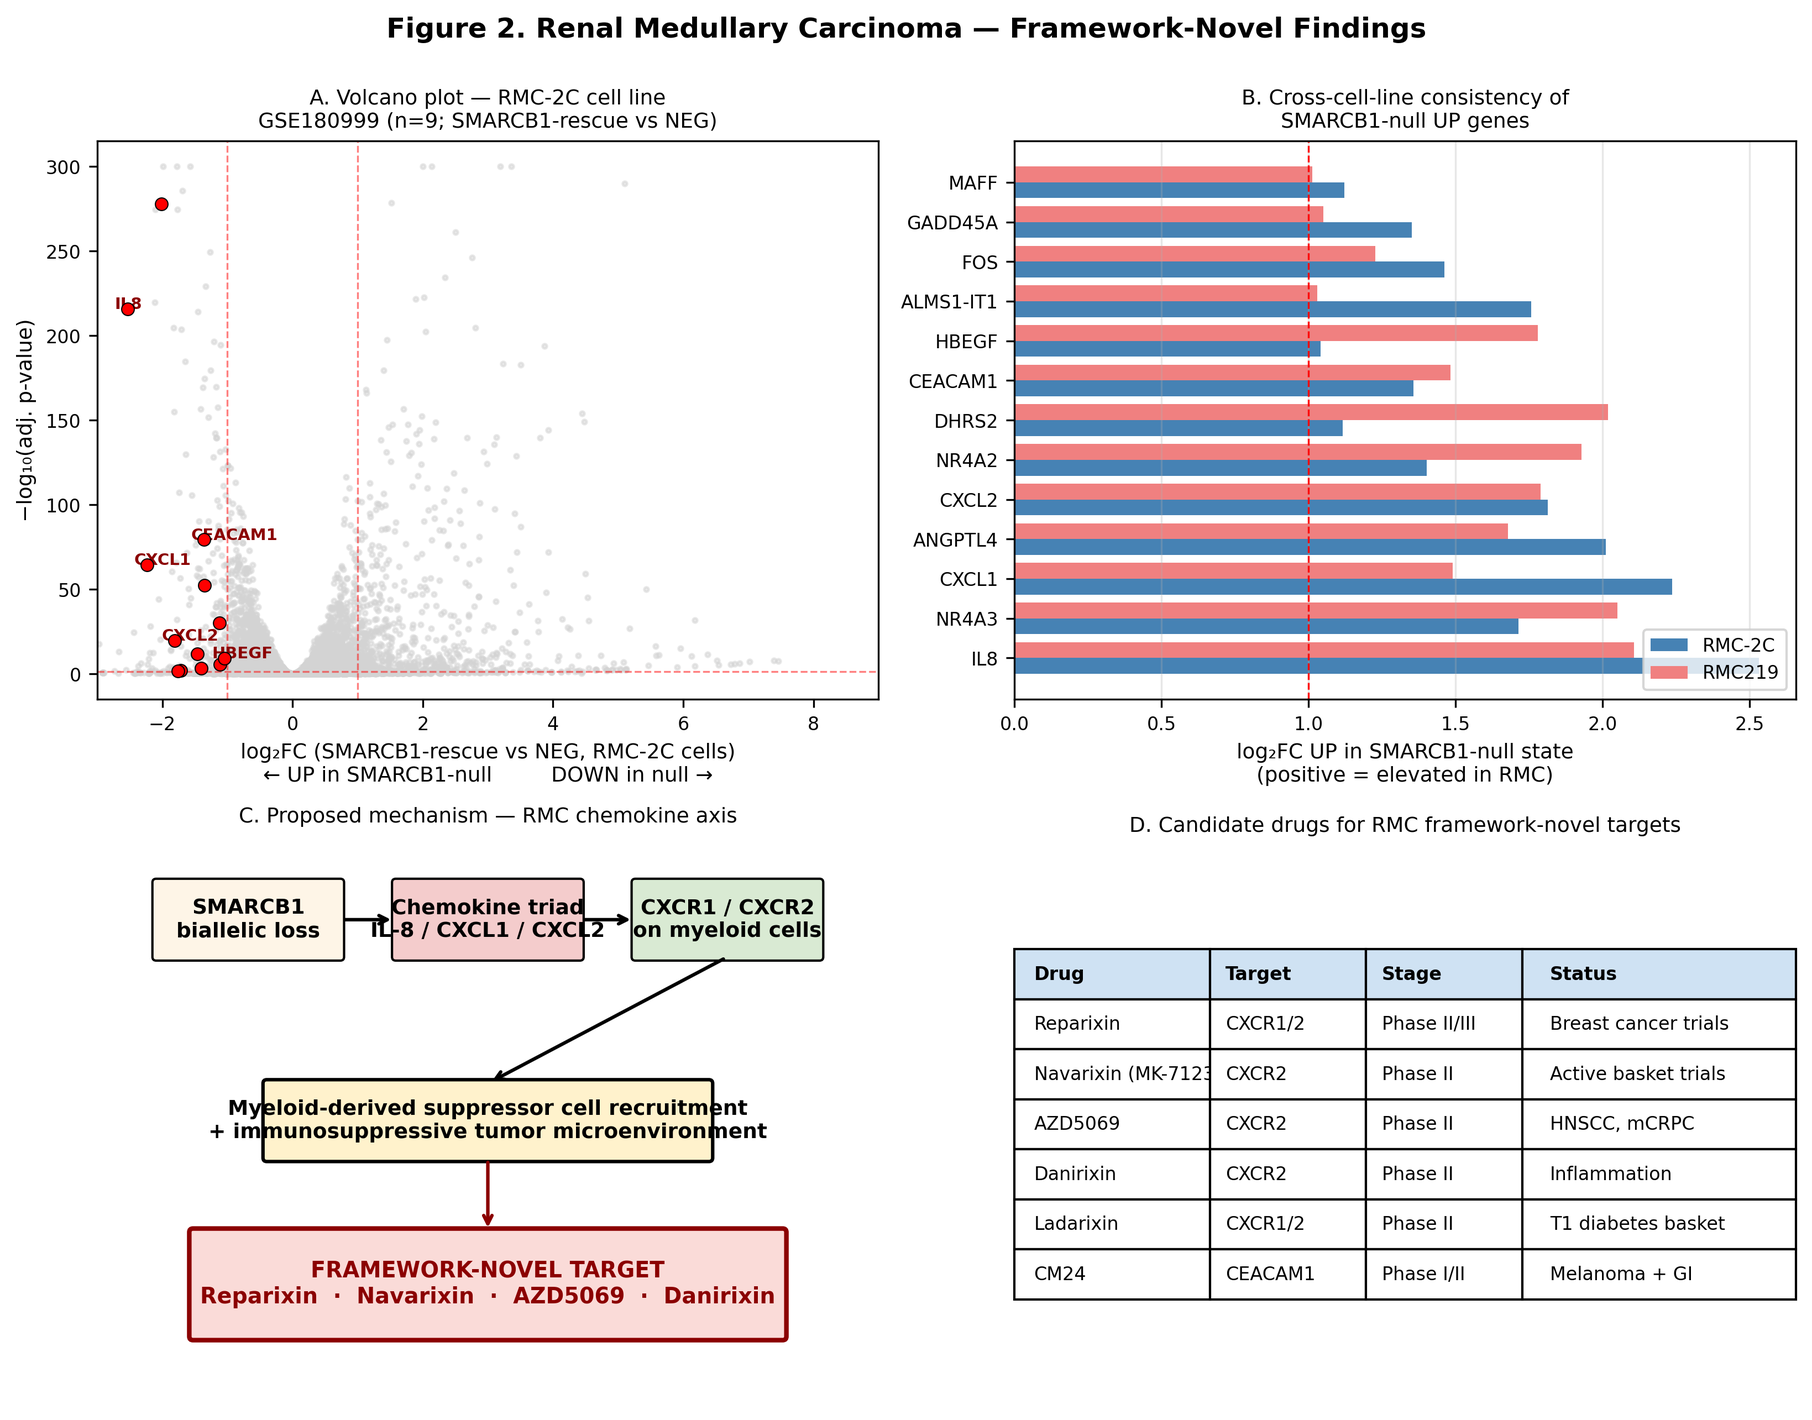
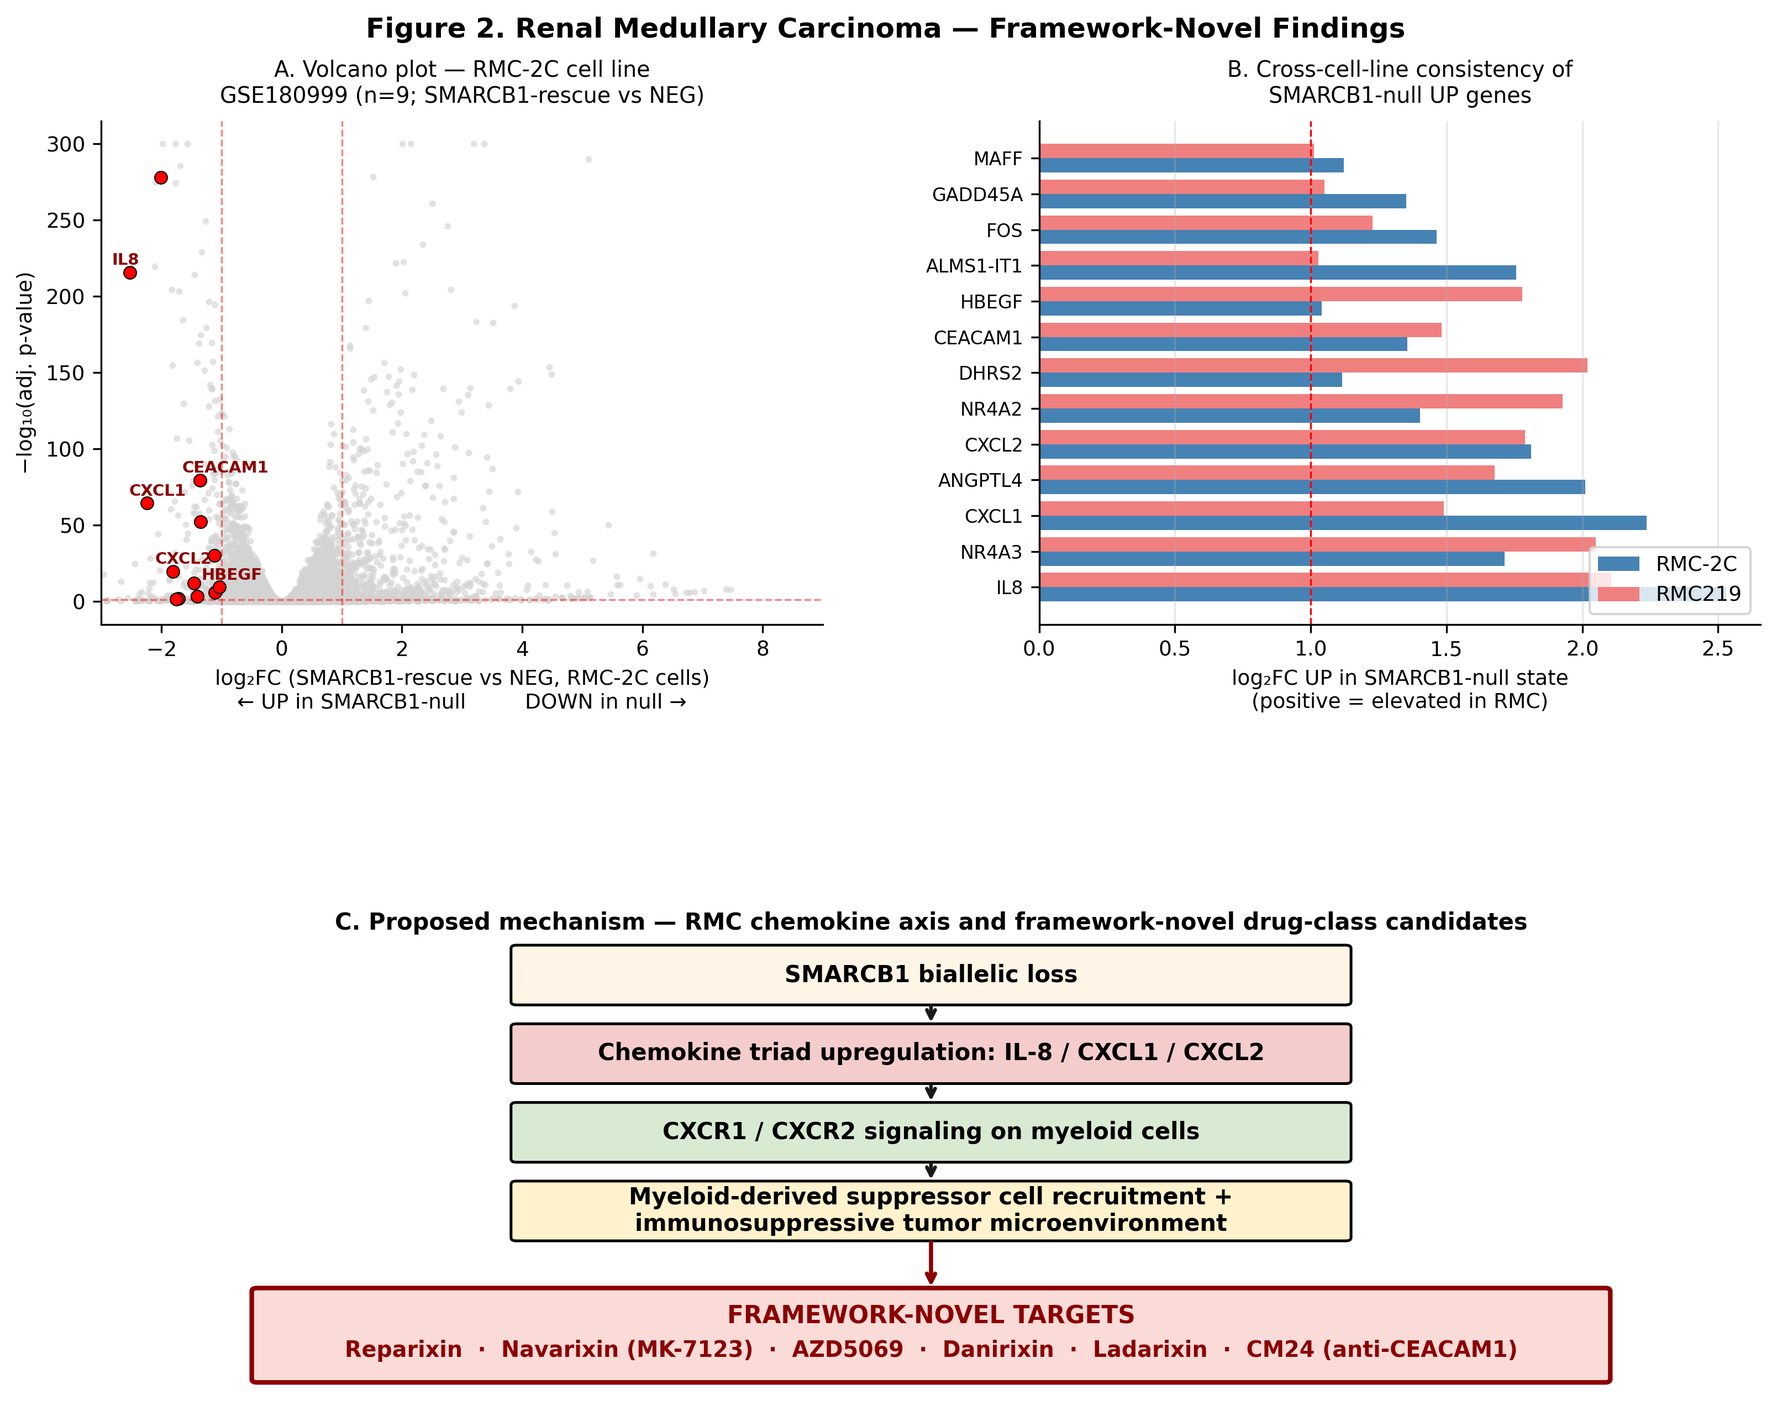
README clarification + figure regeneration to prevent reviewer confusion with legacy/v25/
README:
- Add prominent "What is deposited" notice at top listing the five
  v26-current processed-data files (FULL_DE_RESULTS_ALL10.csv,
  GEO_DATASET_AUDIT_10_DATASETS.csv, MASTER_DRUG_ASSOCIATION_TABLE_30_ROWS.csv,
  PUBMED_NOVELTY_AUDIT.csv, KEGG_PATHWAYS_18.json + KEGG_ENRICHMENT_ALL10.{json,csv})
- Reframe the seven-context list to show source-disease (rows 1-16)
  versus rare-disease/variant-histology discovery-mode (rows 17-30)
- Expand the CXCR1/CXCR2 candidate list (add danirixin, ladarixin) and
  add the CEACAM5 replacement-agent caveat
- Condense the legacy v25 paragraph and redirect readers to
  legacy/v25/README.md

legacy/v25/README.md (new):
- Explicit ARCHIVE-ONLY warning so no reviewer reproduces v26 claims
  against v25 intermediate files
- Lists v25 filenames (FULL_DE_RESULTS.csv, KEGG_ENRICHMENT.csv,
  DRUG_EVIDENCE_SCORES_v18.csv, GEO_DATASET_AUDIT.csv) as superseded,
  and routes back to the v26 files at repo root

Figures:
- Figure 1 (Figure1_pipeline.png): compressed aspect ratio (11x9 from
  11x11.5), Step 3 caption updated to "drug-class-first selection ·
  upper-tail hypergeometric" matching the uniform Methods rationale
- Figure 2 (Figure2_RMC.png): restructured 2x2 grid -> 3-panel
  (A volcano + B cross-cell-line + C clean linear vertical mechanism
  flow spanning bottom); Panel D removed (was redundant with Master
  Table 1)
- Figure 3 (Figure3_SarcUC.png): restructured 2x2 grid -> 3-panel
[…]

diff --git a/code/pipeline/12_generate_figures.py b/code/pipeline/12_generate_figures.py
@@ -35,67 +35,153 @@ plt.rcParams.update({
 })
 
 # =====================================================================
-# Figure 1 — Pipeline schematic
+# Figure 1 — Pipeline schematic (vertical flow, parallel Step 1 inputs)
 # =====================================================================
 print("Generating Figure 1: Pipeline schematic")
-fig, ax = plt.subplots(figsize=(11, 7.5))
+fig, ax = plt.subplots(figsize=(11, 11.5))
 ax.set_xlim(0, 11)
-ax.set_ylim(0, 7.5)
+ax.set_ylim(0, 11.5)
 ax.axis('off')
 
-# Draw 6 step boxes (shifted down to leave clear space for title)
-steps = [
-    (0.4, 4.2, 'Step 1\nTCGA Pan-Cancer\nAtlas alteration\nfrequencies', '#cfe2f3'),
-    (2.2, 4.2, 'Step 2\nGEO transcriptomic\ndata (10 datasets,\n7 contexts)', '#d9ead3'),
-    (4.0, 4.2, 'Step 3\nDifferential expr.\n+ KEGG enrichment\n(18 pathways)', '#fff2cc'),
-    (5.8, 4.2, 'Step 4\nDrug-target curation\n(TTD + OpenTargets)', '#f4cccc'),
-    (7.6, 4.2, 'Step 5\n9-point Molecular\nPrioritization Score\n(T/G/K/L)', '#ead1dc'),
-    (9.4, 4.2, 'Step 6\nIndependent PubMed\nliterature audit\n(novelty per row)', '#d0e0e3'),
+# --- Title ---
+ax.text(5.5, 11.15, 'Figure 1. Unified Public-Data Pipeline for Drug Repurposing',
+        ha='center', fontsize=13, weight='bold', color='#1a1a1a')
+ax.text(5.5, 10.80, 'Across Seven Aggressive Urologic Cancer Contexts',
+        ha='center', fontsize=11.5, weight='bold', color='#1a1a1a')
+
+# --- Context header bar ---
+header_box = FancyBboxPatch((0.4, 9.85), 10.2, 0.70,
+                             boxstyle="round,pad=0.05",
+                             ec='#1a1a1a', fc='#1a3a5c', linewidth=1.2)
+ax.add_patch(header_box)
+ax.text(5.5, 10.32, '7 Aggressive Urologic Cancer Contexts',
+        ha='center', va='center', fontsize=11, weight='bold', color='white')
+ax.text(5.5, 10.00,
+        'NEPC   |   MIBC   |   ccRCC   |   RMC   |   PSCC   |   Sarcomatoid UC   |   SCBC',
+        ha='center', va='center', fontsize=9, color='#e8e8e8', style='italic')
+
+# Down arrow from header to Step 1
+ax.annotate('', xy=(5.5, 9.30), xytext=(5.5, 9.75),
+            arrowprops=dict(arrowstyle='->', lw=1.6, color='#444'))
+
+# --- Step 1 group label ---
+ax.text(5.5, 9.27, 'Step 1.  Genomic evidence input',
+        ha='center', fontsize=10.5, weight='bold', color='#1a1a1a')
+
+# --- Step 1a (TCGA) and Step 1b (Published series) — parallel boxes ---
+# Left: TCGA
+ax.add_patch(FancyBboxPatch((0.5, 7.40), 4.85, 1.65,
+                              boxstyle="round,pad=0.06",
+                              ec='#1f4e79', fc='#cfe2f3', linewidth=1.4))
+ax.text(2.925, 8.75, 'Step 1a — TCGA Pan-Cancer Atlas',
+        ha='center', va='center', fontsize=9.5, weight='bold', color='#0b2e4f')
+ax.text(2.925, 8.42, 'Source-disease cohorts',
+        ha='center', va='center', fontsize=8.5, style='italic', color='#1a1a1a')
+ax.text(2.925, 8.02, 'PRAD  n = 494   (NEPC)\n'
+                     'BLCA  n = 411   (MIBC)\n'
+                     'KIRC  n = 512   (ccRCC)',
+        ha='center', va='center', fontsize=8.3, color='#0b2e4f',
+        family='monospace')
+ax.text(2.925, 7.52, '→ Master Table 1 rows 1–16',
+        ha='center', va='center', fontsize=8.3, weight='bold', color='#0b2e4f')
+
+# Right: Published genomic series
+ax.add_patch(FancyBboxPatch((5.65, 7.40), 4.85, 1.65,
+                              boxstyle="round,pad=0.06",
+                              ec='#2c6e49', fc='#d9ead3', linewidth=1.4))
+ax.text(8.075, 8.75, 'Step 1b — Published genomic series',
+        ha='center', va='center', fontsize=9.5, weight='bold', color='#1d4d33')
+ax.text(8.075, 8.42, 'Rare-disease discovery cohorts',
+        ha='center', va='center', fontsize=8.5, style='italic', color='#1a1a1a')
+ax.text(8.075, 8.02, 'RMC: Msaouel 2020       PSCC: Chahoud 2022\n'
+                     'Sarc-UC: Guo 2019         SCBC: Chang 2018',
+        ha='center', va='center', fontsize=8.0, color='#1d4d33',
+        family='monospace')
+ax.text(8.075, 7.52, '→ Master Table 1 rows 17–30',
+        ha='center', va='center', fontsize=8.3, weight='bold', color='#1d4d33')
+
+# Converging arrows from Step 1a / 1b to top of Step 2 box (straight diagonals
+# that originate just below the Step 1 boxes so they don't bisect interior text)
+ax.annotate('', xy=(5.5, 7.00), xytext=(2.925, 7.36),
+            arrowprops=dict(arrowstyle='->', lw=1.5, color='#1f4e79'))
+ax.annotate('', xy=(5.5, 7.00), xytext=(8.075, 7.36),
+            arrowprops=dict(arrowstyle='->', lw=1.5, color='#2c6e49'))
+
+# --- Steps 2–6: unified vertical column (height 0.80, spacing 1.10) ---
+unified_steps = [
+    (6.17, 'Step 2',
+     'GEO transcriptomic differential expression',
+     '10 datasets across all 7 contexts  ·  Welch t-test, BH-FDR',
+     '#fff2cc', '#806600'),
+    (5.07, 'Step 3',
+     '18 pre-specified KEGG pathway enrichment',
+     '8 drug-class  +  7 discovery-context  +  3 disease-context  ·  hypergeometric',
+     '#fce5cd', '#a04a00'),
+    (3.97, 'Step 4',
+     'Drug–target curation',
+     'Therapeutic Target Database  +  OpenTargets (release 2026.03)',
+     '#f4cccc', '#922b21'),
+    (2.87, 'Step 5',
+     '9-point Molecular Prioritization Score',
+     'TCGA-equivalent genomic (0–3)  +  GEO (0–3)  +  KEGG (0–2)  +  Literature (0–1)',
+     '#ead1dc', '#6c3483'),
+    (1.77, 'Step 6',
+     'Independent PubMed prior-proposal audit',
+     'Urologic-oncology-literature-only novelty classification per drug–cancer row',
+     '#d0e0e3', '#1b5e6b'),
 ]
-for x, y, txt, color in steps:
-    box = FancyBboxPatch((x, y), 1.6, 1.6, boxstyle="round,pad=0.05",
-                          ec='black', fc=color, linewidth=1.0)
-    ax.add_patch(box)
-    ax.text(x + 0.8, y + 0.8, txt, ha='center', va='center', fontsize=8, weight='bold')
+box_x, box_w, box_h = 1.20, 8.60, 0.80
+for y, label, title, sub, fc, accent in unified_steps:
+    ax.add_patch(FancyBboxPatch((box_x, y), box_w, box_h,
+                                  boxstyle="round,pad=0.05",
+                                  ec=accent, fc=fc, linewidth=1.2))
+    ax.text(box_x + 0.30, y + box_h/2, label, ha='left', va='center',
+            fontsize=10, weight='bold', color=accent)
+    ax.text(5.50, y + 0.55, title, ha='center', va='center',
+            fontsize=10, weight='bold', color='#1a1a1a')
+    ax.text(5.50, y + 0.22, sub, ha='center', va='center',
+            fontsize=8.3, color='#333')
 
-# Arrows between steps
-for i in range(5):
-    ax.annotate('', xy=(steps[i+1][0], steps[i+1][1] + 0.8),
-                xytext=(steps[i][0] + 1.6, steps[i][1] + 0.8),
-                arrowprops=dict(arrowstyle='->', lw=1.5, color='black'))
+# Arrows linking unified steps (downward — head=destination, tail=origin)
+arrow_pairs = [
+    (5.87, 6.17),   # Step 2 (bot 6.17) → Step 3 (top 5.87)
+    (4.77, 5.07),   # Step 3 (bot 5.07) → Step 4 (top 4.77)
+    (3.67, 3.97),   # Step 4 (bot 3.97) → Step 5 (top 3.67)
+    (2.57, 2.87),   # Step 5 (bot 2.87) → Step 6 (top 2.57)
+]
+for head_y, tail_y in arrow_pairs:
+    ax.annotate('', xy=(5.5, head_y), xytext=(5.5, tail_y),
+                arrowprops=dict(arrowstyle='->', lw=1.6, color='#444'))
 
-# Inputs (top) — clear separation from step boxes
-ax.text(5.5, 7.0, '7 Aggressive Urologic Cancer Contexts',
-        ha='center', fontsize=12, weight='bold', color='#1a1a1a')
-ax.text(5.5, 6.55, 'NEPC  |  MIBC  |  ccRCC  |  RMC  |  PSCC  |  Sarc-UC  |  SCBC',
-        ha='center', fontsize=8.5, color='#444444', style='italic')
-# Arrow from input header to step boxes
-ax.annotate('', xy=(5.5, 5.8), xytext=(5.5, 6.3),
-            arrowprops=dict(arrowstyle='->', lw=1.5, color='gray'))
+# Arrow from Step 6 (bottom 1.77) down to output box (top 1.28)
+ax.annotate('', xy=(5.5, 1.30), xytext=(5.5, 1.75),
+            arrowprops=dict(arrowstyle='->', lw=2.0, color='#1a1a1a'))
 
-# Output (bottom)
-output_box = FancyBboxPatch((1.0, 0.5), 9.0, 2.5,
-                             boxstyle="round,pad=0.1", ec='black',
-                             fc='#fef5e7', linewidth=1.5)
-ax.add_patch(output_box)
-ax.text(5.5, 2.65, 'Master Table 1: 30 Drug–Cancer Associations',
-        ha='center', fontsize=11, weight='bold')
-ax.text(5.5, 2.20, '24 convergent validation (previously-proposed priorities)',
-        ha='center', fontsize=9)
-ax.text(5.5, 1.80, '6 framework-novel within urologic-oncology literature',
-        ha='center', fontsize=9, color='#c00')
-ax.text(5.5, 1.40, '5 partially novel; 1 clinically-actionable negative biomarker',
-        ha='center', fontsize=9)
-ax.text(5.5, 0.85, '10 Strong-tier | 17 Moderate-tier | 2 Exploratory-tier (Molecular Prioritization Score 0–9)',
-        ha='center', fontsize=8, style='italic', color='#555')
+# --- Output box: Master Table 1 ---
+out_box = FancyBboxPatch((0.40, 0.10), 10.20, 1.18,
+                          boxstyle="round,pad=0.06",
+                          ec='#7a4a00', fc='#fef5e7', linewidth=1.6)
+ax.add_patch(out_box)
+ax.text(5.50, 0.95, 'Master Table 1 — 30 Drug–Cancer Associations',
+        ha='center', va='center', fontsize=11.5, weight='bold', color='#7a4a00')
+# Color-coded category summary on one line
+ax.text(2.20, 0.55, '18  previously proposed',
+        ha='center', va='center', fontsize=9, weight='bold', color='#0b2e4f')
+ax.text(2.20, 0.30, '(convergent literature support)',
+        ha='center', va='center', fontsize=7.8, style='italic', color='#0b2e4f')
+ax.text(4.85, 0.55, '6  framework-novel',
+        ha='center', va='center', fontsize=9, weight='bold', color='#c00000')
+ax.text(4.85, 0.30, '(within urologic-oncology literature)',
+        ha='center', va='center', fontsize=7.8, style='italic', color='#c00000')
+ax.text(7.30, 0.55, '5  partially novel',
+        ha='center', va='center', fontsize=9, weight='bold', color='#6c3483')
+ax.text(7.30, 0.30, '(variant-specific extensions)',
+        ha='center', va='center', fontsize=7.8, style='italic', color='#6c3483')
+ax.text(9.50, 0.55, '1  negative biomarker',
+        ha='center', va='center', fontsize=9, weight='bold', color='#1d4d33')
+ax.text(9.50, 0.30, '(TROP2-low in Sarc-UC)',
+        ha='center', va='center', fontsize=7.8, style='italic', color='#1d4d33')
 
-# Connect steps to output
-ax.annotate('', xy=(5.5, 3.0), xytext=(5.5, 3.95),
-            arrowprops=dict(arrowstyle='->', lw=2.0, color='black'))
-
-plt.title('Figure 1. Unified Public-Data Pipeline Schematic for Drug Repurposing Across\n'
-          'Seven Aggressive Urologic Cancer Contexts', fontsize=11, weight='bold', pad=8)
-plt.tight_layout()
 plt.savefig(FIGURES / 'Figure1_pipeline.png', bbox_inches='tight')
 plt.close()
 print(f"  Saved: {FIGURES / 'Figure1_pipeline.png'}")

diff --git a/README.md b/README.md
@@ -6,6 +6,22 @@
 
 A reproducible public-data pipeline that identifies convergent and novel drug-repurposing priorities across seven aggressive urologic cancer contexts.
 
+---
+
+> ### What is deposited at the root of this repository
+>
+> **Seven clinical contexts. Ten GEO datasets. Thirty drug–cancer associations (Master Table 1).** The processed analysis tables that accompany the v26 manuscript are located at the **root of this repository** and named:
+>
+> - `data/DE_results/FULL_DE_RESULTS_ALL10.csv` — consolidated DE across all ten GEO datasets
+> - `data/DE_results/GEO_DATASET_AUDIT_10_DATASETS.csv` — ten-dataset accession audit with PMIDs
+> - `results/MASTER_DRUG_ASSOCIATION_TABLE_30_ROWS.csv` — thirty drug–cancer associations with per-row scoring
+> - `results/PUBMED_NOVELTY_AUDIT.csv` — per-row novelty classification
+> - `results/KEGG_PATHWAYS_18.json` and `results/KEGG_ENRICHMENT_ALL10.{json,csv}` — eighteen pre-specified pathways + hypergeometric enrichment per disease
+>
+> Source manuscript: the v26 submission (under review, May 2026). The `legacy/v25/` subfolder preserves an earlier three-context analysis **for provenance only** and is **not** the active deposit; see [`legacy/v25/README.md`](legacy/v25/README.md).
+
+---
+
 ## Companion manuscript
 
 **"A Reproducible Public-Data Pipeline Identifies Convergent and Novel Drug-Repurposing Priorities Across Rare Aggressive Urologic Cancers"** *(under review, May 2026)*
@@ -25,9 +41,13 @@ The pipeline integrates:
 
 ## Seven clinical contexts analyzed
 
-1. Neuroendocrine prostate cancer (NEPC)
-2. Muscle-invasive bladder cancer (MIBC)
-3. Clear cell renal cell carcinoma (ccRCC)
+**Source-disease contexts** (TCGA Pan-Cancer Atlas cohorts, Master Table 1 rows 1–16):
+1. Neuroendocrine prostate cancer (NEPC) — TCGA PRAD n = 494
+2. Muscle-invasive bladder cancer (MIBC) — TCGA BLCA n = 411
+3. Clear cell renal cell carcinoma (ccRCC) — TCGA KIRC n = 512
+
+**Rare-disease / variant-histology discovery contexts** (published genomic series + GEO discovery-mode, Master Table 1 rows 17–30):
+
 4. Renal medullary carcinoma (RMC) — SMARCB1-deficient
 5. Penile squamous cell carcinoma (PSCC)
 6. Sarcomatoid urothelial carcinoma
@@ -35,14 +55,16 @@ The pipeline integrates:
 
 ## Master Table 1 output (30 drug-cancer associations)
 
+Rows 1–16 (source-disease validation) ↔ Rows 17–30 (rare-disease / variant-histology discovery mode).
+
 - **18 previously-proposed** urologic-oncology priorities (convergent literature support)
 - **6 framework-novel** within urologic-oncology literature:
-  - CXCR1/CXCR2 antagonists (reparixin, navarixin, AZD5069) in RMC
+  - CXCR1/CXCR2 antagonists (reparixin, navarixin, AZD5069, danirixin, ladarixin) in RMC
   - Anti-CEACAM1 (CM24) in RMC
   - NSD2/WHSC1 inhibition (KTX-1001) in sarcomatoid urothelial carcinoma
   - ATR pathway inhibitors (ceralasertib, berzosertib, elimusertib) in sarcomatoid urothelial carcinoma
   - SSTR2-directed lutetium-177 DOTATATE in NEUROD1+ SCBC
-  - CEACAM5-directed targeting in ASCL1+ SCBC
+  - CEACAM5-directed targeting in ASCL1+ SCBC (replacement-agent selection required following the December 2023 discontinuation of tusamitamab ravtansine)
 - **5 partially novel** variant-specific extensions
 - **1 clinically actionable negative biomarker** (TROP2-low in sarcomatoid urothelial carcinoma → sacituzumab govitecan predicted non-response, concordant with Brunelli 2024 / Bahlinger 2024 / Hoffman-Censits 2021)
 
@@ -139,9 +161,9 @@ The concept-DOI [10.5281/zenodo.20217919](https://doi.org/10.5281/zenodo.2021791
 
 Claude (Anthropic) and ChatGPT (OpenAI) large-language-model tools were used for coding assistance, literature-audit organization, language editing, and manuscript-structure suggestions. All analyses were executed by author-run Python scripts using publicly available datasets. All PubMed novelty classifications, score component assignments, drug-target interpretations, and final manuscript text were reviewed and approved by the human authors.
 
-## Legacy v25 content
+## Provenance: `legacy/v25/` (archived, not used by the current manuscript)
 
-The original three-context source-disease analysis (16 drug-cancer associations across NEPC, MIBC, ccRCC) is preserved in `legacy/v25/` for provenance and continuity. The v26 expansion supersedes the v25 analysis for all reproducibility claims in the companion manuscript.
+The earlier three-context analysis is archived under [`legacy/v25/`](legacy/v25/) for historical provenance only. **It is not the deposit referenced by the v26 manuscript and should not be used to reproduce any v26 claim.** All current reproducibility claims map exclusively to the files at the root of this repository (see the top of this README). The `legacy/v25/` folder contains its own README clarifying its archive status.
 
 ## Contact
 

diff --git a/legacy/v25/README.md b/legacy/v25/README.md
@@ -1,0 +1,27 @@
+# ARCHIVE — `legacy/v25/`
+
+> ## This folder is NOT the deposit referenced by the current manuscript.
+
+The files in this folder belong to an **earlier three-context analysis** (v25: neuroendocrine prostate cancer, muscle-invasive bladder cancer, clear cell renal cell carcinoma) that produced 16 drug–cancer associations across the source-disease contexts.
+
+**It has been superseded** by the v26 expansion at the root of this repository:
+
+- Seven clinical contexts (the three source-disease contexts plus four rare-disease / variant-histology contexts: renal medullary carcinoma; penile squamous cell carcinoma; sarcomatoid urothelial carcinoma; lineage-transcription-factor-stratified small-cell bladder cancer)
+- Ten Gene Expression Omnibus datasets
+- Eighteen pre-specified KEGG pathways
+- **Thirty drug–cancer associations** (Master Table 1)
+
+## What this folder is NOT
+
+- It is **not** the data backing any claim made in the v26 manuscript.
+- Its CSV files (`FULL_DE_RESULTS.csv`, `KEGG_ENRICHMENT.csv`, `DRUG_EVIDENCE_SCORES_v18.csv`, `GEO_DATASET_AUDIT.csv`, etc.) are **earlier-iteration files** retained only so v25 commits/tags remain reproducible from disk.
+- For reproducing the v26 manuscript, use the files at the root of the repository:
+    - `data/DE_results/FULL_DE_RESULTS_ALL10.csv`
+    - `data/DE_results/GEO_DATASET_AUDIT_10_DATASETS.csv`
+    - `results/MASTER_DRUG_ASSOCIATION_TABLE_30_ROWS.csv`
+    - `results/PUBMED_NOVELTY_AUDIT.csv`
+    - `results/KEGG_PATHWAYS_18.json`, `results/KEGG_ENRICHMENT_ALL10.{json,csv}`
+
+## Why these files were retained
+
+The v26 expansion was developed iteratively from v25. Preserving v25 intermediate artifacts under `legacy/v25/` keeps the historical record auditable from disk. Reviewers and editors evaluating the current manuscript should ignore this folder.
